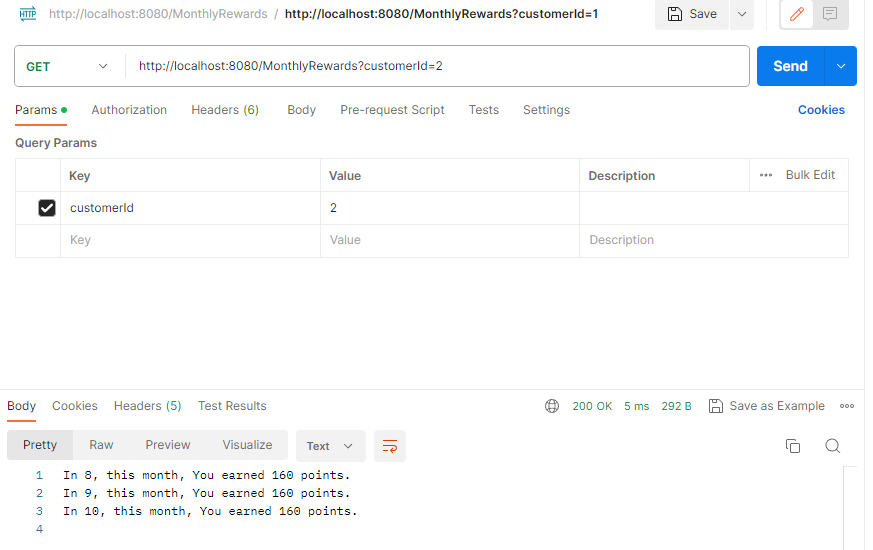
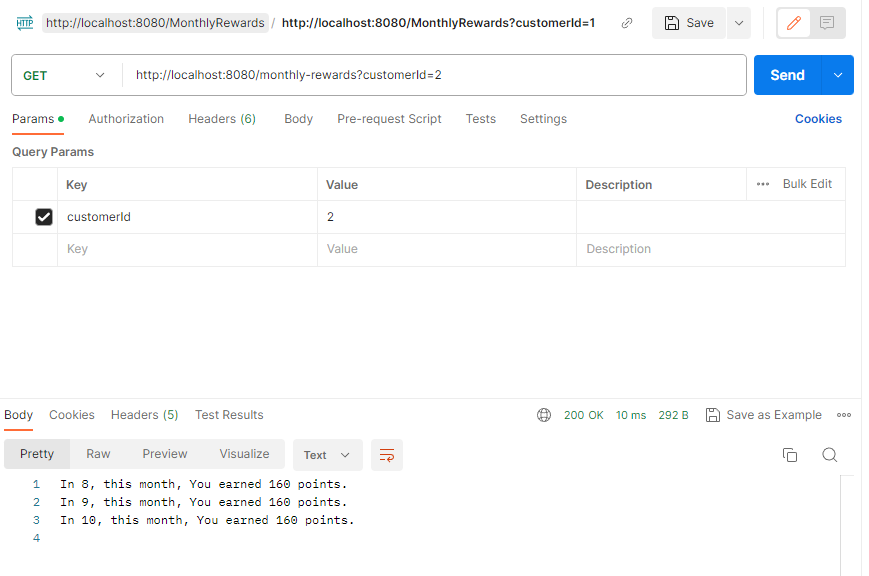
fix url for best practice

diff --git a/src/main/java/com/challenge/code/controller/RewardsController.java b/src/main/java/com/challenge/code/controller/RewardsController.java
@@ -22,7 +22,7 @@ public class RewardsController {
         this.rewardsService = rewardsService;
     }
 
-    @GetMapping("/MonthlyRewards")
+    @GetMapping("/monthly-rewards")
     public ResponseEntity getMonthlyRewardReport(@RequestParam Integer customerId) throws ServiceException{
 
         long start = System.nanoTime();
@@ -39,7 +39,7 @@ public class RewardsController {
         return ResponseEntity.ok().body(report);
     }
 
-    @GetMapping("/TotalRewards")
+    @GetMapping("/total-rewards")
     public ResponseEntity getTotalRewardReport(@RequestParam Integer customerId) throws ServiceException{
 
         long start = System.nanoTime();

diff --git a/src/test/java/com/challenge/code/repository/TransactionRepositoryTest.java b/src/test/java/com/challenge/code/repository/TransactionRepositoryTest.java
@@ -30,6 +30,5 @@ class TransactionRepositoryTest {
         List<Transaction> transactionList = new ArrayList<>();
         transactionList.add(transaction);
 
-        // can not test Interface
     }
 }
